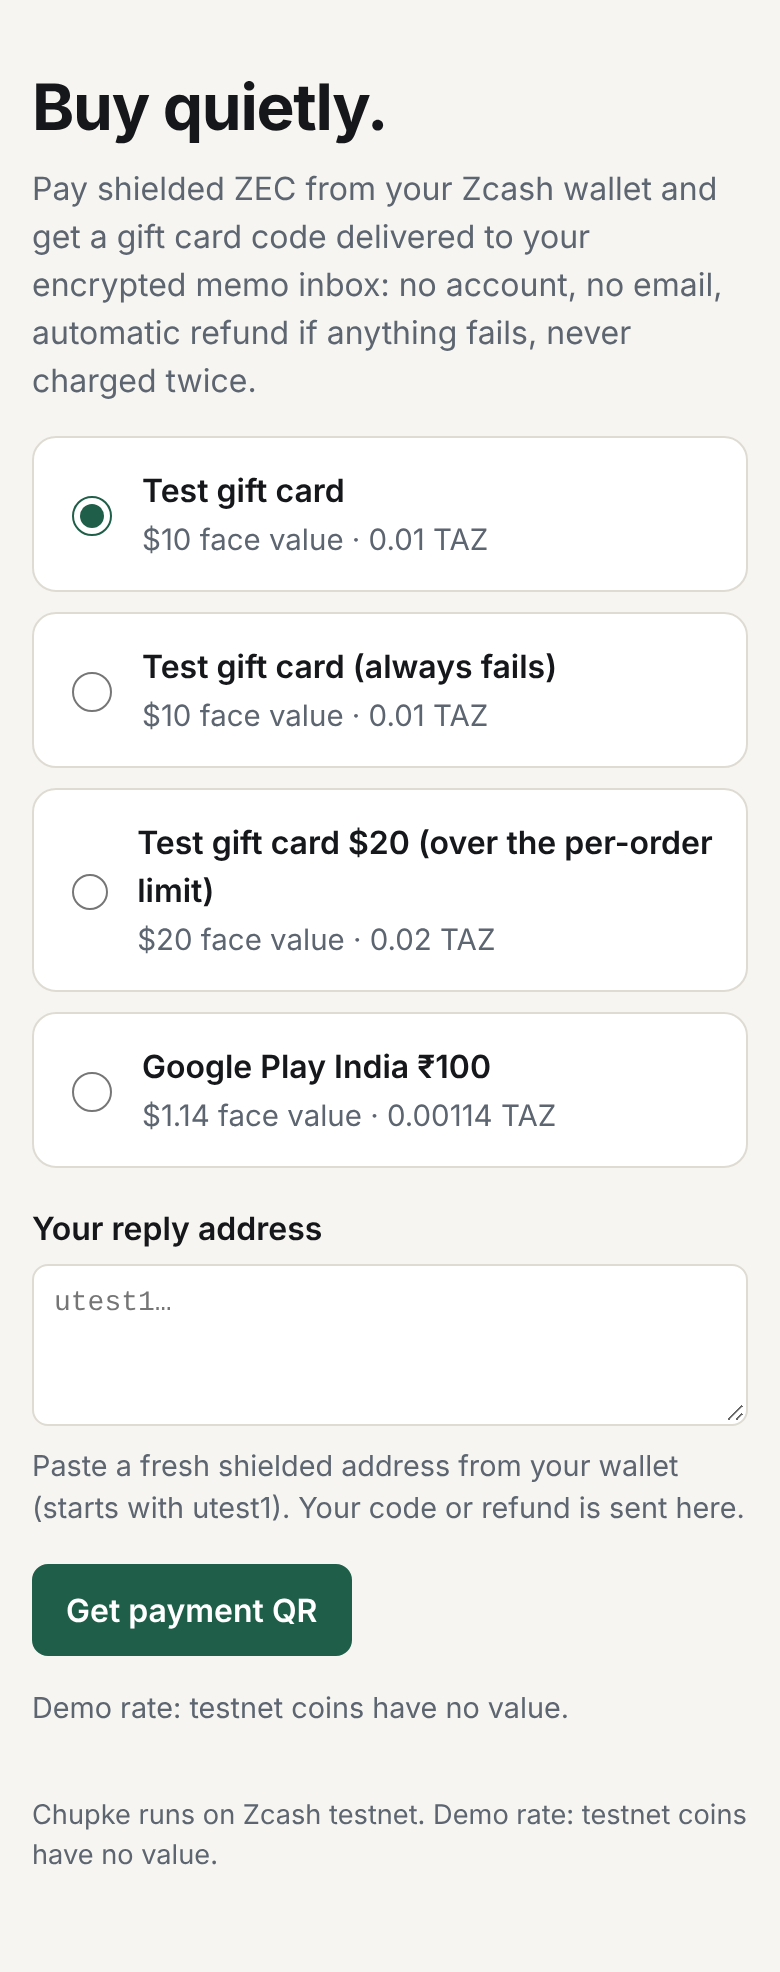
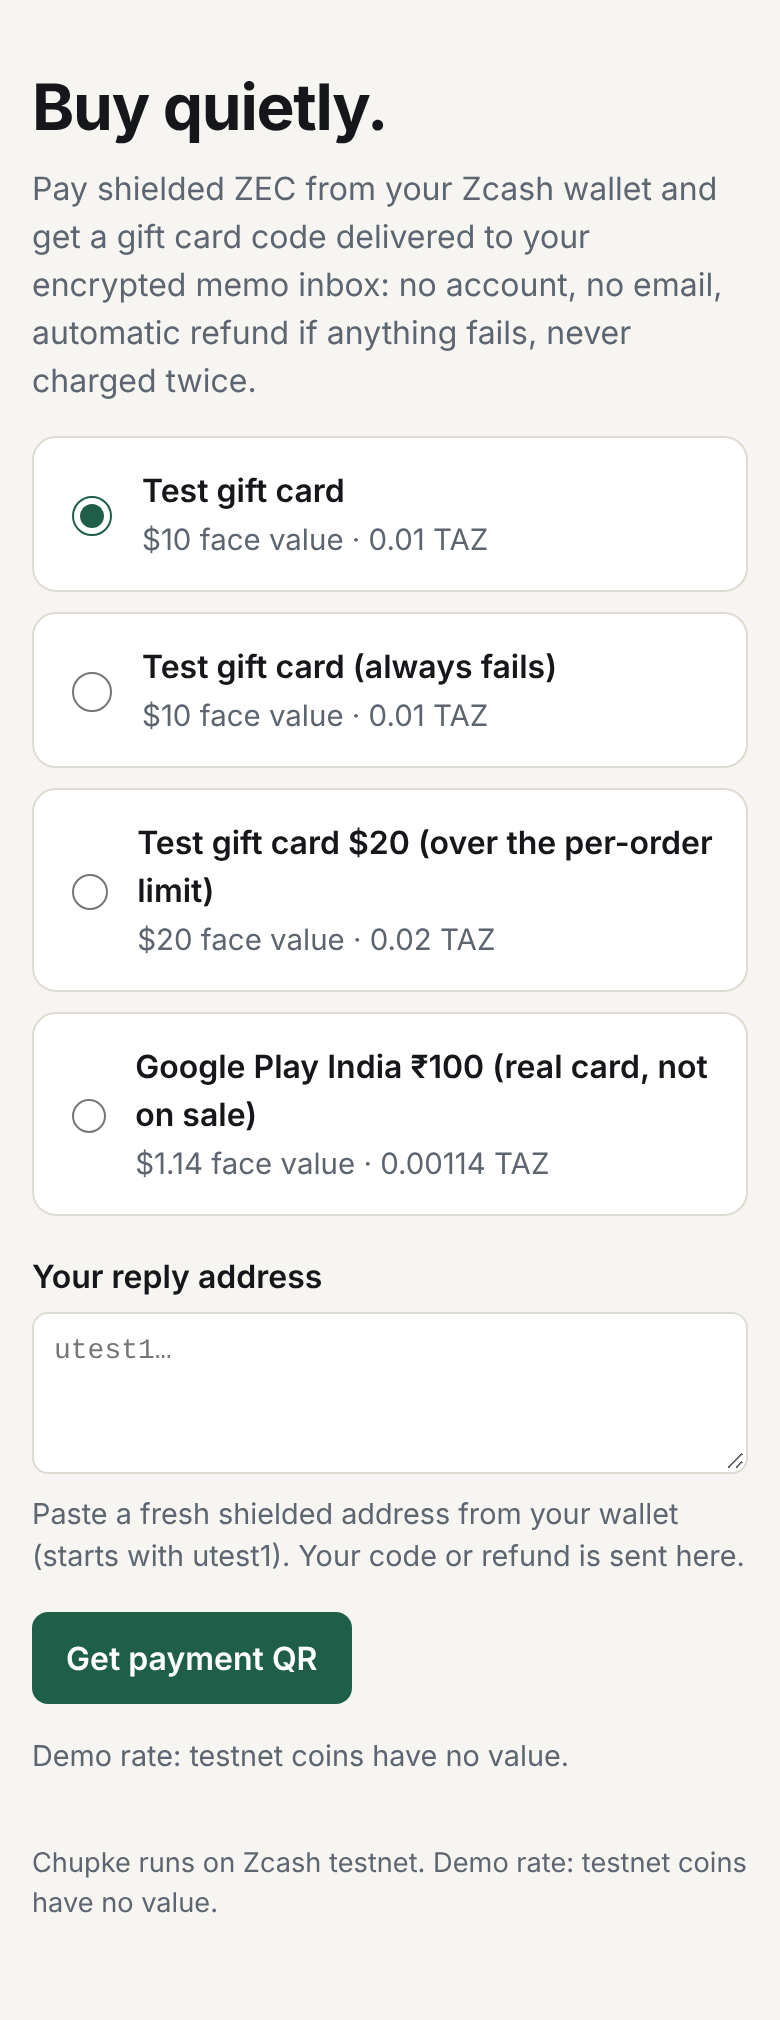
Skip the real-product purchase; README states Bitrefill evidence uses test products
The shop's Bitrefill balance is 0 and no source confirms event credits, so
no real-money gift card is bought. README drops the pending row and explains
that every invoice is a real REST v2 invoice for a free test product, while
the real-product path stays built and guarded: Google Play India INR 100
remains allowlisted, labeled 'real card, not on sale', and is refused and
refunded while ALLOW_REAL_PURCHASES=false. Decision D6 in docs/NOTES.md and
notes in SPEC sections 12 and 14.

Claude-Session: https://claude.ai/code/session_01CyuyUvYJ9x6vUKwACWNDLA

diff --git a/SPEC.md b/SPEC.md
@@ -239,6 +239,7 @@ M0 (now -> 13:30), then STOP and report:
   1. scripts/bitrefill-smoke.ts: ping, balance, search, product details (including test products).
   2. scripts/bitrefill-buy-once.ts --sku test-ok: create -> save id -> pay -> poll -> delivered -> print the masked redemption.
   3. Buy the real product only after my go-ahead, and record its invoice ID.
+  > 2026-11-04: SKIPPED by decision. The shop's Bitrefill balance is 0, and no public source says Bitrefill provides event credits. The real entry (google-play-india-100, $1.14, proposed by the MCP catalog) stays allowlisted and is refused with "Shop isn't selling this yet" while ALLOW_REAL_PURCHASES=false. All Bitrefill evidence uses the free test products.
 - Gate:
   - Both rails work -> both tracks.
   - Only Bitrefill works -> Agentic-only (same engine, with a signed webhook trigger instead of Zcash).
@@ -288,6 +289,7 @@ README.md must include:
 - A Bitrefill touchpoints paragraph: REST v2, the MCP catalog if built, and Docs llms.txt used by the coding agent; what was built vs reused.
 - The guardrails line from section 9.
 - An evidence table: testnet txids with explorer links, plus the real Bitrefill invoice ID.
+  > 2026-11-04: there is no real-product invoice (the purchase was skipped; see M0 Bitrefill step 3). The table lists the test-product invoice IDs instead.
 - The demo video and the public URL.
 - The merchant-of-record framing.
 - The next milestone (30 days), with links: a Bitrefill partner/reseller pilot on mainnet with batched ZEC->USDC top-ups, Nym for wallet traffic, per-order diversified addresses, and the shielded checkout and refund module open-sourced.

diff --git a/README.md b/README.md
@@ -99,7 +99,13 @@ These are all real transactions. The full list is in [docs/EVIDENCE.md](docs/EVI
 | refund: duplicate payment | YMXHFE23J6 | [`34f0a31a…92d8`](https://testnet.zcashexplorer.app/transactions/34f0a31ac141357661471ddc9111bcedf2cdd076b50e59792f0b05dcad1a92d8) |
 | refund: quote expired | CVTJ3622GM | [`4e45c0c2…13cb`](https://testnet.zcashexplorer.app/transactions/4e45c0c2a676c5e516ba21352d2ac08a90c2a206c3efdec2330faa75488413cb) |
 | split-mode delivery (view-only inbox watched, outbox sent) | 3J5T3XDWPH | [`6b8d1f3f…5f7d`](https://testnet.zcashexplorer.app/transactions/6b8d1f3f8ccf9990040d7ae18ed6a9daf6e41e6bd6b1764ab57f674c5f555f7d) |
-| real Bitrefill purchase (Google Play India ₹100, $1.14) | – | *approved and allowlisted; waiting for event credits on the shop's Bitrefill balance* |
+
+**Bitrefill purchases use Bitrefill's free test products.** Every invoice above is a real REST v2 invoice
+(created, paid from the shop balance, delivered or failed), but no real-money gift card was bought: the shop's Bitrefill
+balance is 0 and none was needed for the demo. The real-product path is built and guarded:
+- Google Play India ₹100 ($1.14) was proposed by the MCP catalog and approved into the allowlist.
+- Ordering it is refused and refunded automatically ("Shop isn't selling this yet") while `ALLOW_REAL_PURCHASES=false`.
+- Enabling it takes Bitrefill balance and one setting.
 
 **Demo video:** *to be added* (script: [docs/DEMO.md](docs/DEMO.md)). **Public URL:** *to be added* ([docs/DEPLOY.md](docs/DEPLOY.md)).
 

diff --git a/docs/NOTES.md b/docs/NOTES.md
@@ -28,6 +28,9 @@
 - **D4** Shop and buyer are zingo-cli wallets in separate data dirs. Each process uses one per-dir
   mutex and a cross-process lock file, so two zingo-cli processes never share a wallet directory.
 - **D5** SPEC.md stays verbatim in its first commit. Verification results are added later as notes.
+- **D6** (14:50 IST) The real-product purchase is skipped. The shop's Bitrefill balance is 0 and no source confirms
+  event credits. Google Play India ₹100 stays allowlisted as a `kind: "real"` entry that the guard refuses while
+  `ALLOW_REAL_PURCHASES=false`. That keeps the real-product path visible, and refused, in the demo.
 
 ## M1 end-to-end run (Wed 4 Nov 2026, IST)
 
